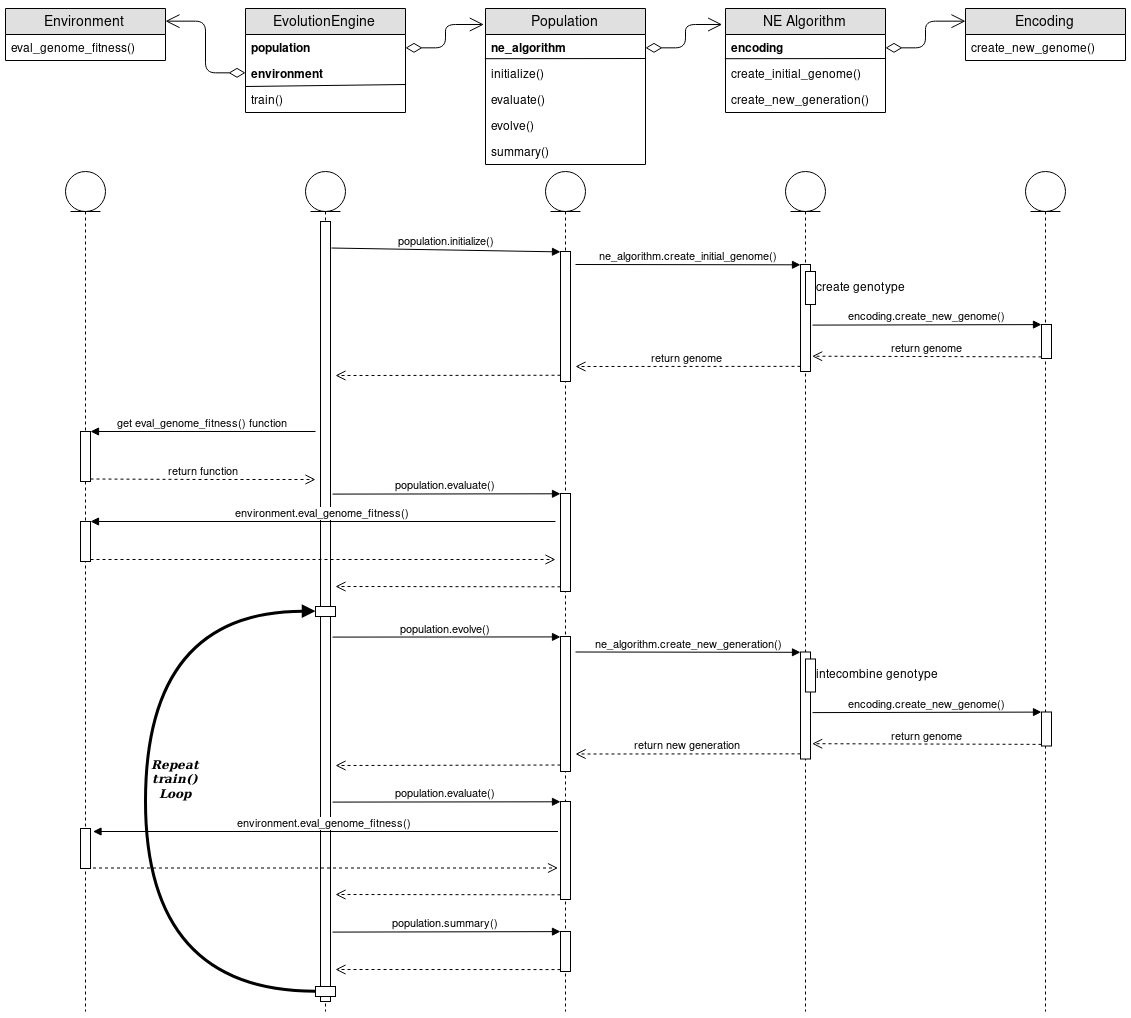
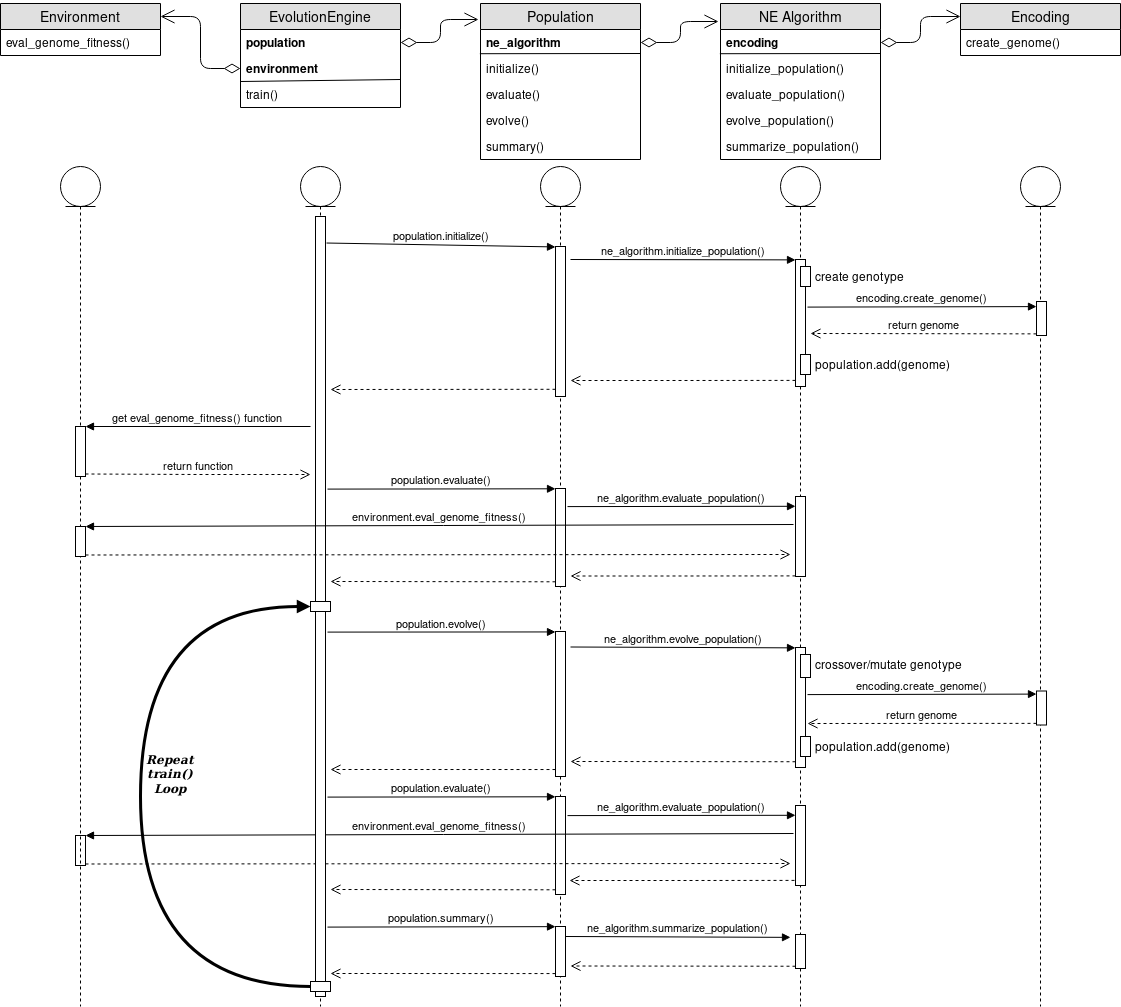
Update architecture illustration to architecture overhaul; Add minor ToDo of adding documentation for direct encoding

diff --git a/README.md b/README.md
@@ -96,6 +96,9 @@ see Github _Issues_ tracker: [here](https://github.com/PaulPauls/Tensorflow-Neur
 
 * [ ] Performance benchmark the framework, identify bottlenecks and add optimization of those bootlenecks to ToDo.
 
+* [ ] Minor ToDos:
+    * Add documentation for direct encoding
+
 
 
 --------------------------------------------------------------------------------
